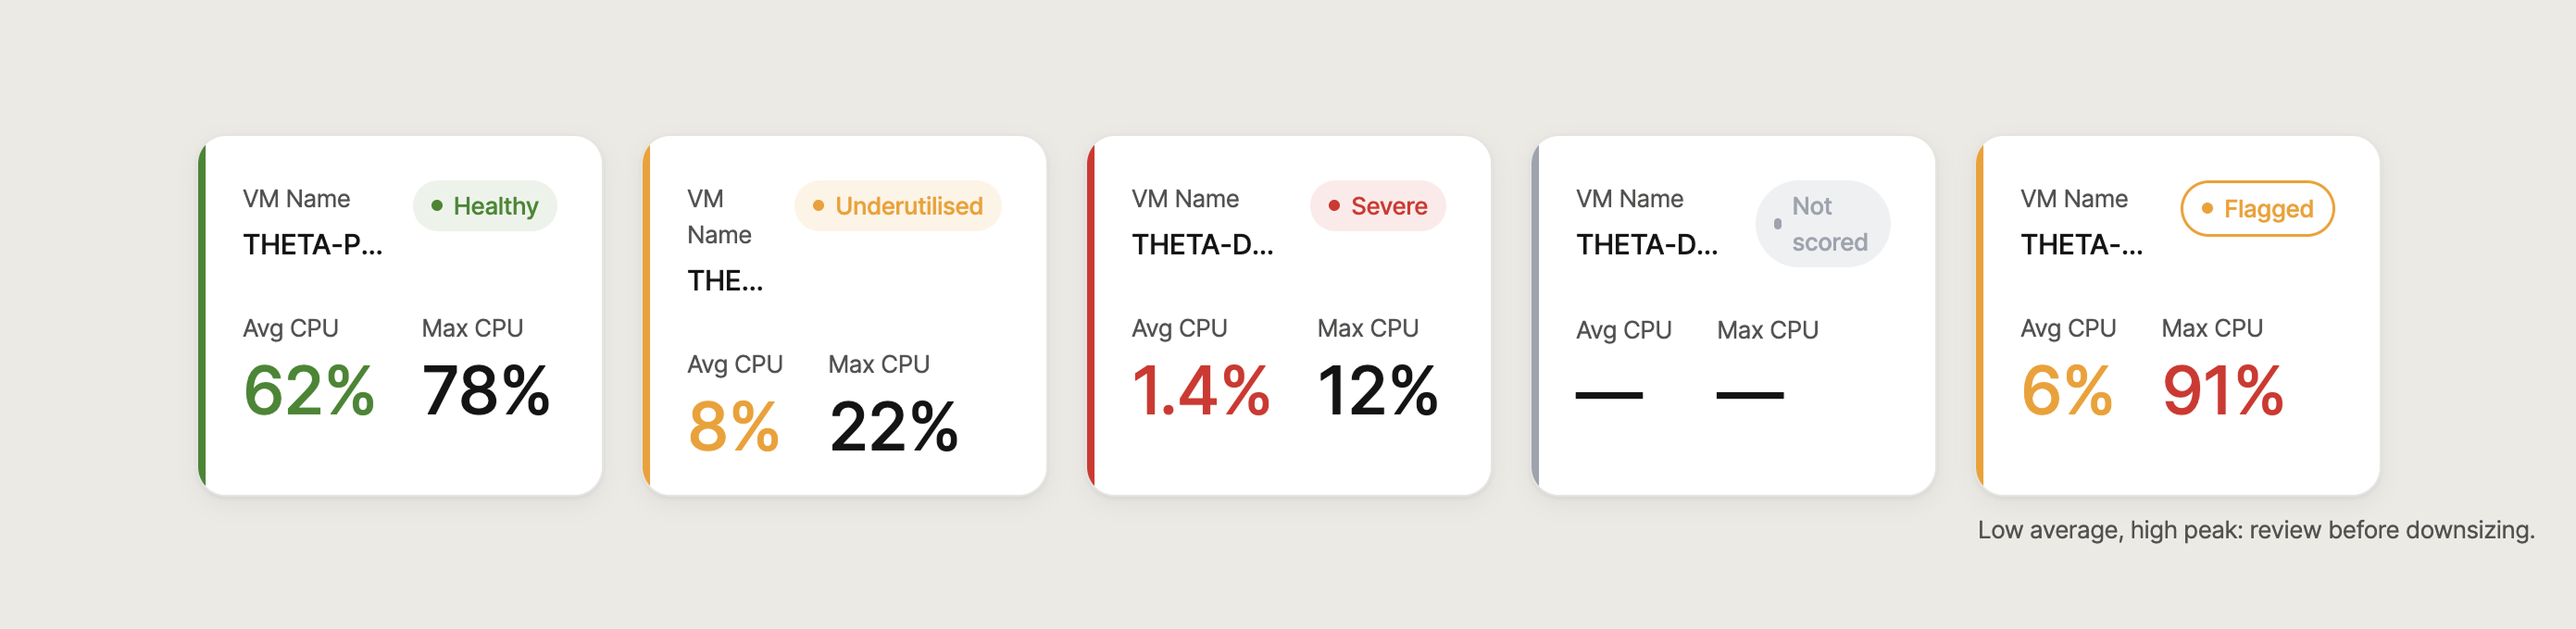
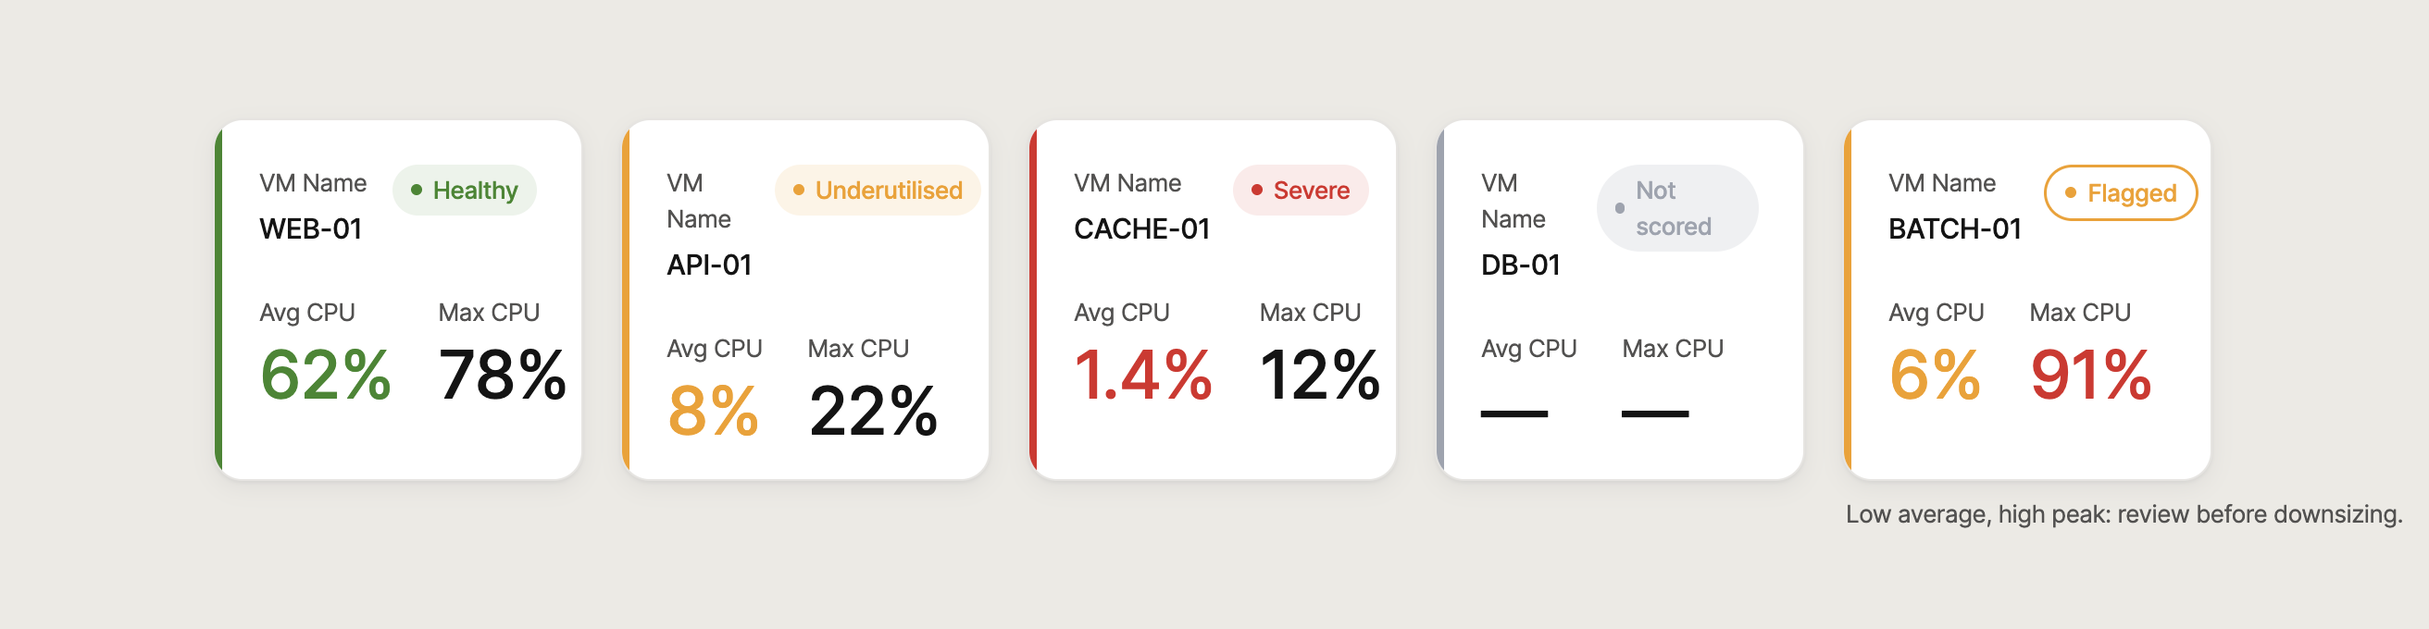
finops case study: replace vm-states asset with named VM cards

Changed region(s): [[0.0625, 0.1853, 1.0, 0.8647]]

diff --git a/case-studies/fidelity-finops/index.html b/case-studies/fidelity-finops/index.html
@@ -145,7 +145,7 @@
           <p>For an application, every VM appears as a card grouped by environment, <strong>DEV, QA, PROD</strong>, showing its name, average CPU, a traffic-light status, and a review flag where relevant.</p>
         </div>
         <figure class="fig">
-          <img src="assets/img/vm-states.png" width="2782" height="680" loading="lazy"
+          <img src="assets/img/vm-states.png" width="2624" height="680" loading="lazy"
             alt="Five VM card states: healthy, underutilised, severe, not scored, flagged">
           <figcaption>The traffic-light model does the interpreting so the user doesn't have to.</figcaption>
         </figure>
